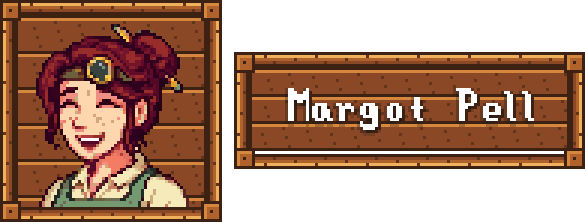
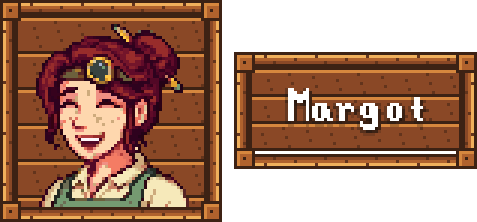
Test suite runner in tools/test; Margot's heading without her surname
- tools/test: run_dev.ps1, run_mp.ps1 and the suite scripts, with paths
  relative to the repository and the dev copies' Mods folders under
  .devgame/ (or PELICAN_DEV_ROOT). docs/development.md says how the suite
  works and which mods each folder needs.
- The Nexus page's Margot heading says just "Margot", as the game names
  its villagers.
- release/nexus/changelog_1.3.0.txt, the 1.3.0 changelog to paste on Nexus.

diff --git a/tools/art/page_art.py b/tools/art/page_art.py
@@ -234,8 +234,8 @@ def main():
     portrait_header(os.path.join(out, "header_sable.png"),
                     os.path.join(here, "..", "..", "[CP] Pelican Palette", "assets", "sable", "portraits.png"), 1,
                     os.path.join(out, "header_sable_portrait.png"))
-    # And Margot's (1.3), the same way.
-    portrait_header(os.path.join(out, "header_margot_pell.png"),
+    # And Margot's (1.3), the same way: her first name only, as the game names its villagers.
+    portrait_header(os.path.join(out, "header_margot.png"),
                     os.path.join(here, "..", "..", "[CP] Pelican Palette", "assets", "margot", "portraits.png"), 1,
                     os.path.join(out, "header_margot_portrait.png"))
     title_card(media, os.path.join(out, "title_card.png"),

diff --git a/docs/development.md b/docs/development.md
@@ -49,6 +49,25 @@ From the title screen:
 - Debug builds also run commands written to `Mods/ArtStudio/dev_commands.txt`.
 - `tools/launch_test.ps1 [-ModsPath dir]`, `tools/stop_test.ps1` and `tools/screenshot_test.ps1` drive a test copy of the game.
 
+### The automated suite (`tools/test/`)
+
+The tests are the `Check(...)` calls in `ArtStudio/DevGame.cs` (and `DevMultiplayer.cs`), grouped into `museart_*test` console commands. They run in a real copy of the game. The scripts below launch it on a separate Mods folder, start a throwaway farm, and type each command into the mod's `dev_commands.txt` inbox, waiting a set number of seconds after each one. Then they pull the `[PASS]` and `[FAIL]` lines out of the SMAPI log. The waits are tuned to one PC, so a slower machine may need longer ones.
+
+- `run_dev.ps1 -Steps "command|seconds", ... [-ModsDir devmods] [-Pattern regex]` rebuilds the mod into that Mods folder, restarts the dev copy, and runs the steps. Separate several commands within one step with `;`.
+- `run_mp.ps1 -Steps "H:command|s", "C:command|s"` runs a host and a farmhand, on `devmods` and `devmods_mp`.
+- `suite_main.ps1` runs most of the suite on one farm. `suite_extra.ps1` runs the tests that need a fresh game each: married, CJB Cheats, each festival, and co-op. `suite_all.ps1` runs both. Results go to `suite_main_out.txt` and `suite_extra_out.txt` in the dev root.
+
+The dev root is `.devgame/` in the repository, which git ignores; set `PELICAN_DEV_ROOT` to use another folder. It holds one Mods folder per setup. The mod itself is built into each folder; the other mods aren't in the repository, so download them into these folders:
+
+| Folder | Mods | Used by |
+|---|---|---|
+| `devmods` | Content Patcher, SpaceCore, Generic Mod Config Menu, Automate, NPC Map Locations, Custom Spouse Rooms, Custom Spouse Patio Redux, PolyamorySweet | the main suite, festivals, co-op host |
+| `devmods_plain` | Content Patcher, SpaceCore, Generic Mod Config Menu, CJB Cheats Menu | married tests, CJB Cheats |
+| `devmods_mp` | Content Patcher, SpaceCore, Generic Mod Config Menu | co-op farmhand |
+| `devmods_sve` | Content Patcher, SpaceCore, Generic Mod Config Menu, Stardew Valley Expanded, Farm Type Manager | SVE checks, run by hand (`run_dev.ps1 -ModsDir devmods_sve`) |
+
+The scripts only stop SMAPI processes running on a Mods folder under the dev root, so a game you're playing is never touched.
+
 ## Release, mod page and wiki
 
 - **Release zip:** `dotnet build ArtStudio/ArtStudio.csproj -c Release -p:EnableModDeploy=false` writes `ArtStudio/bin/Release/net6.0/ArtStudio <version>.zip`. Without the flag the build also deploys, so leave it on while a test game is running.
